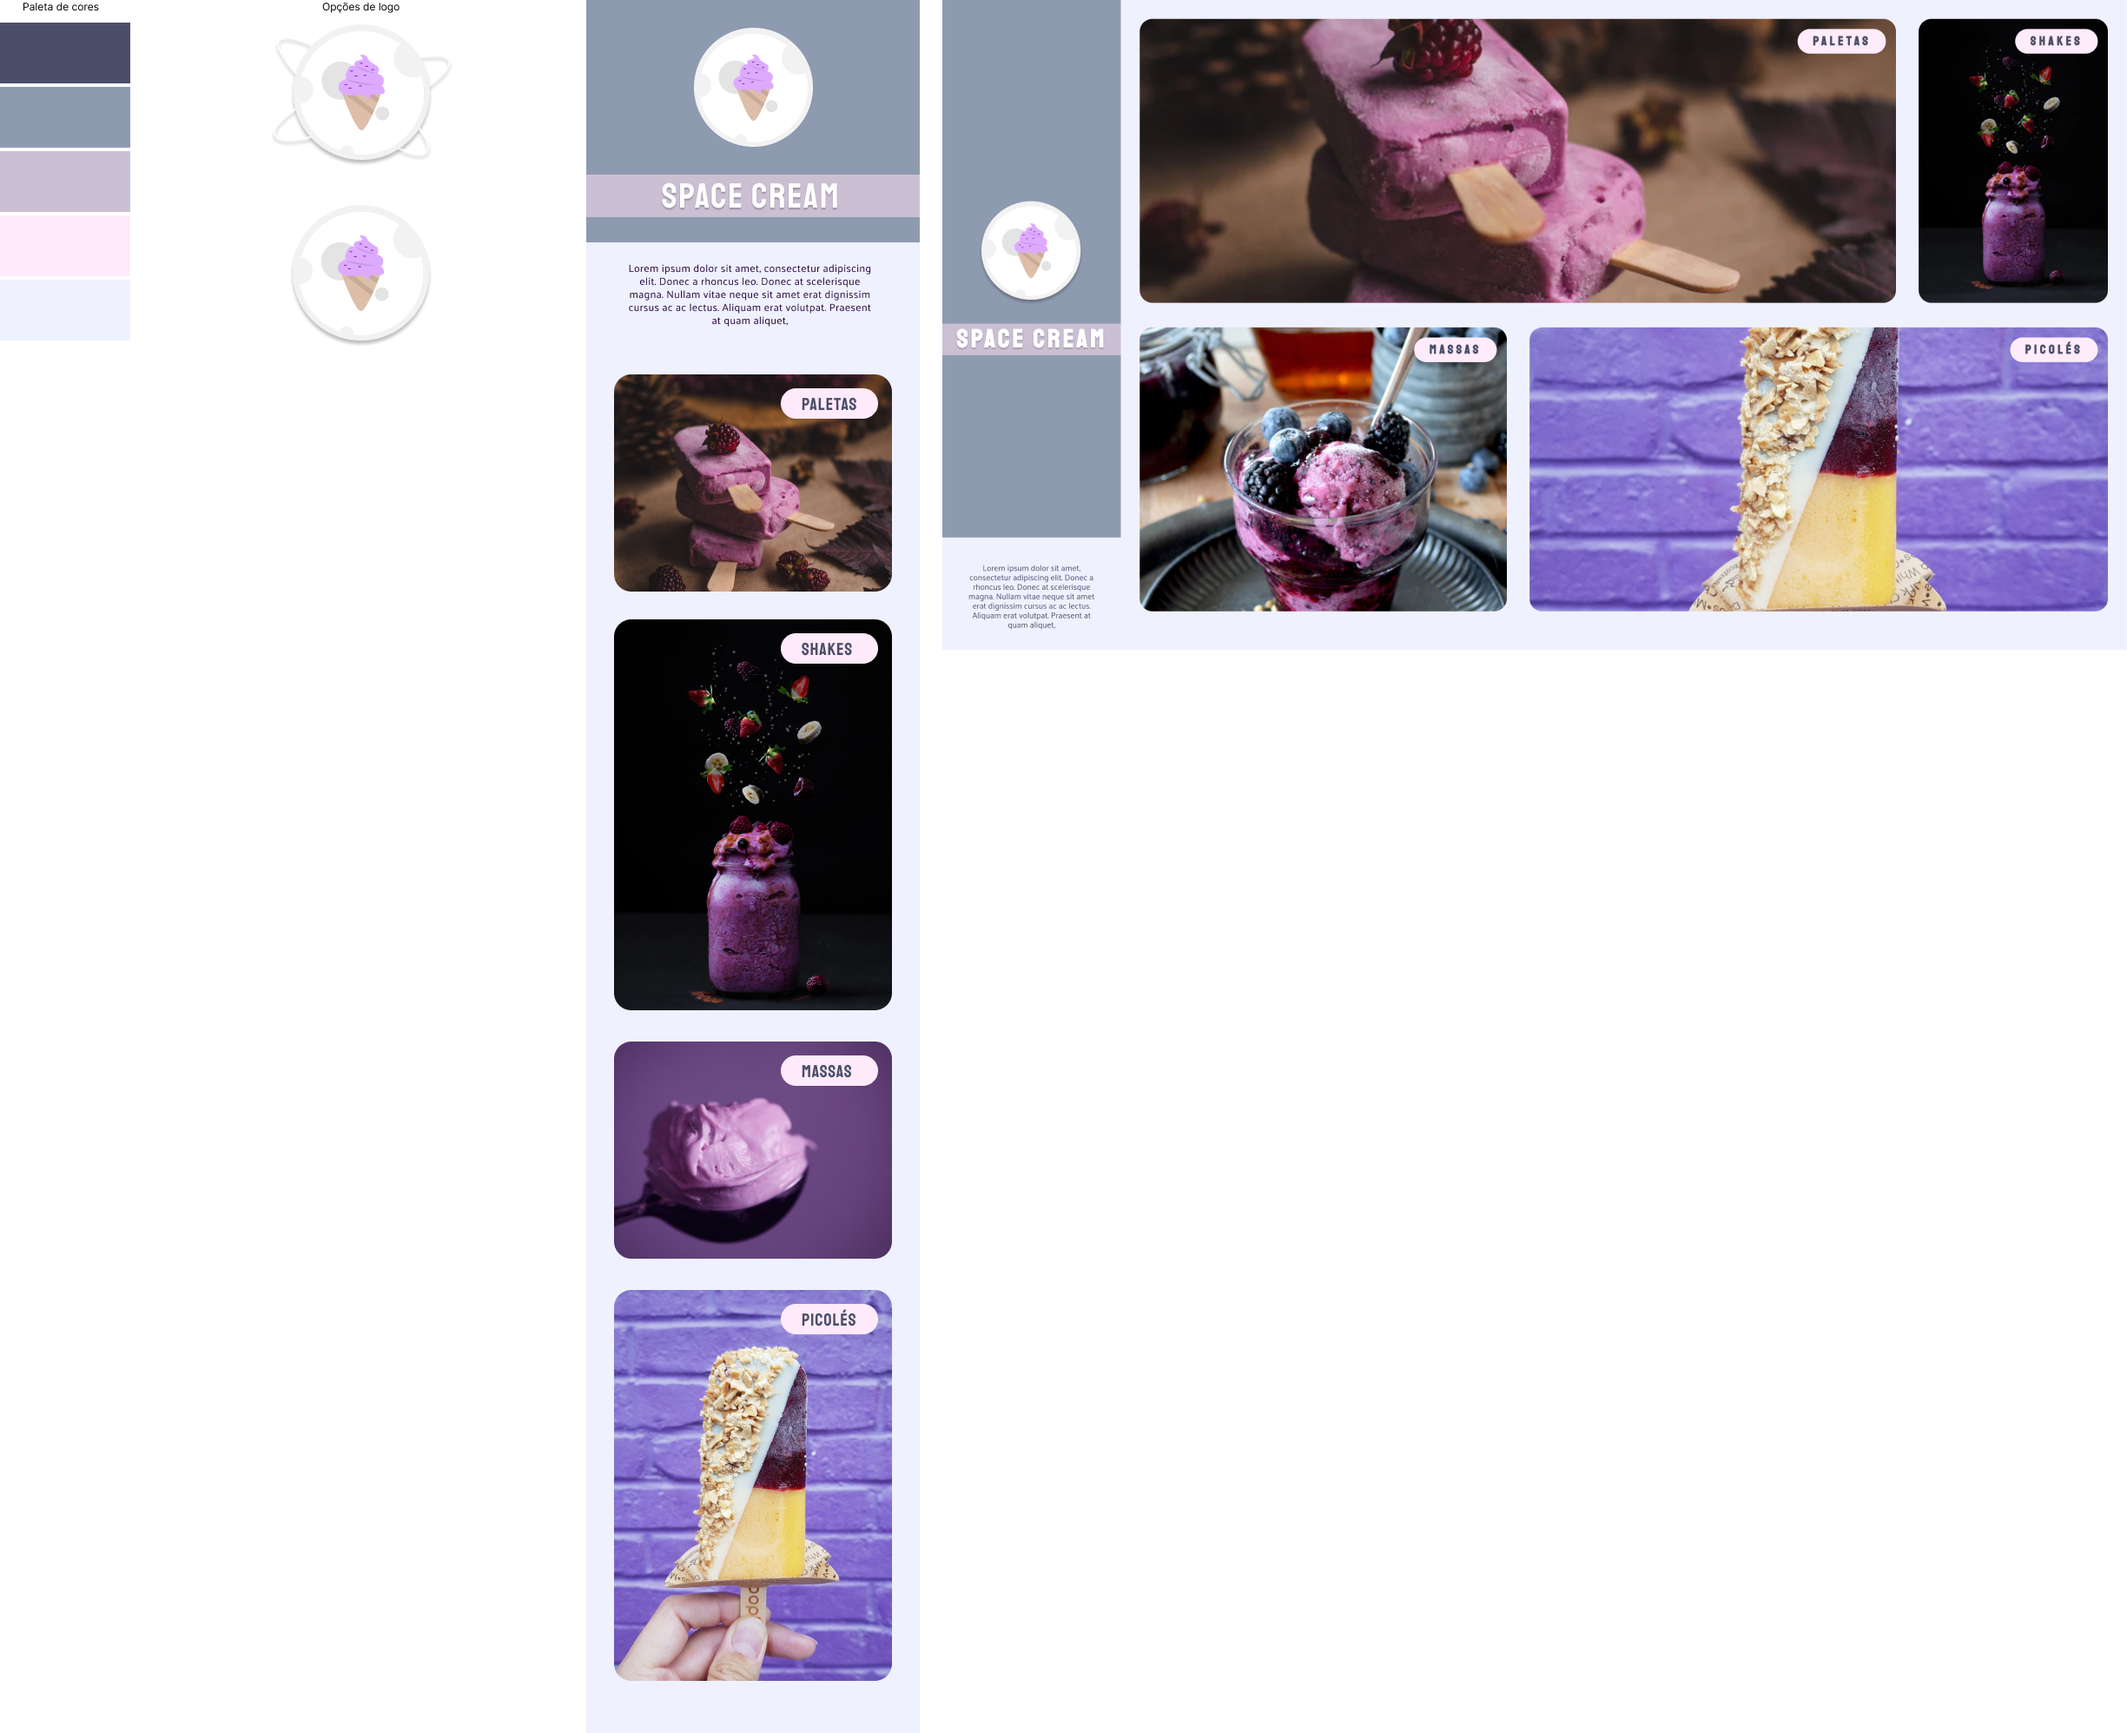
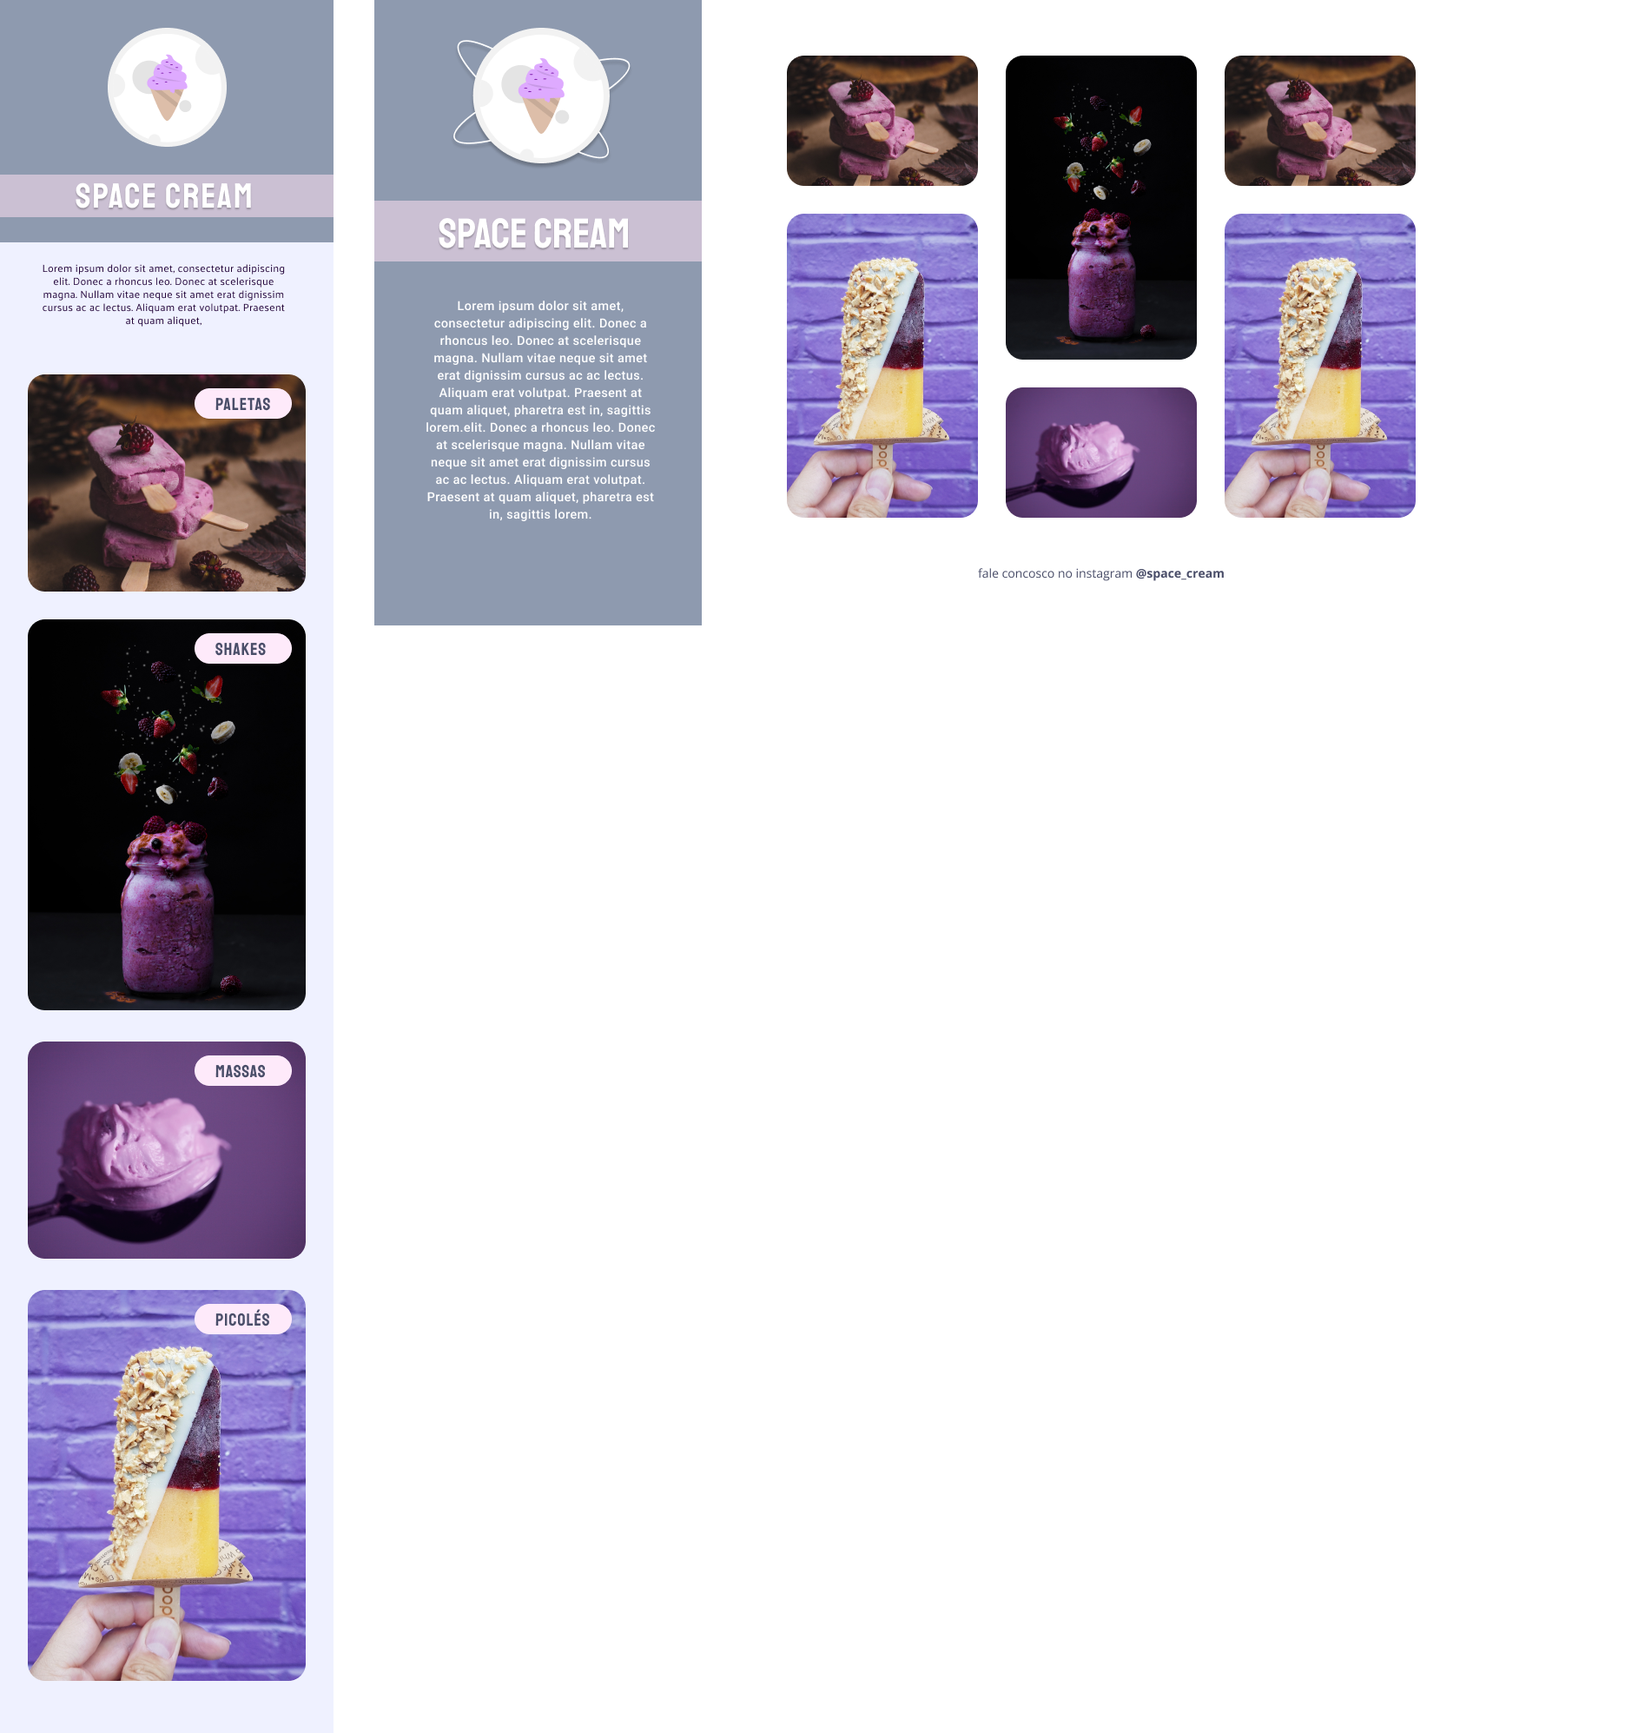
Adionado nova pagina desktop e estilizacao

diff --git a/css/style.css b/css/style.css
@@ -15,14 +15,19 @@
   --fs-title: 4rem;
   --fs-text: 1.3rem;
   --fs-second-title: 2rem;
+  --fs-second-text: 2.4rem;
+  --fs-title-desktop: 4.8rem;
   --ff-primary: "Palanquin", sans-serif;
   --ff-second: "Staatliches", cursive;
+  --ff-third: 'Open Sans', sans-serif;
+  --ff-fourth: 'Roboto', sans-serif;
 }
 
 body {
   margin: 0 auto;
   background: var(--cl-fourth);
   font-family: var(--ff-second);
+  min-height: 100vh;
 }
 
 body section:nth-child(1) {
@@ -53,6 +58,16 @@ body section:nth-child(1) {
   text-transform: uppercase;
   letter-spacing: 0.5rem;
   text-shadow: 0px 2px 2px rgba(0, 0, 0, 0.25);
+}
+
+body .content .space-cream p {
+  display: none;
+  color: var(--cl-fifth);
+  font-size: var(--fs-text);
+  line-height: 2rem;
+  font-family: var(--ff-fourth);
+  width: 26rem;
+  height: 50rem;
 }
 
 .content p {
@@ -109,6 +124,21 @@ body section:nth-child(2) {
   gap: 3.6rem;
 }
 
+footer {
+  display: none;
+  width: 59.2rem;
+}
+
+footer, footer a {
+  font-family: var(--ff-third);
+  font-size: var(--fs-text);
+  color: var(--cl-primary);
+  text-decoration: none;
+  text-align: center;
+  line-height: 2.8rem;
+  margin: 0 auto;
+}
+
 @keyframes topdown {
     0% {
         opacity: 0;
@@ -147,25 +177,53 @@ body section:nth-child(2) {
 @media (min-width: 1100px) {
   body {
       display: flex;
+      background: var(--cl-fifth);
   }  
 
   body section:nth-child(1) {
-    width: 33.5rem;
+    width: 40rem;
     margin: 0;
+  }
+
+  body section:nth-child(1) p {
+    display: none;
+  }
+
+  .content .card:nth-child(1) img,
+  .content .card:nth-child(4) img {
+    height: 25rem;
   }
 
   .space-cream {
       display: flex;
       flex-direction: column;
       align-items: center;
-      justify-content: center;
-      height: 85%;
-      margin-bottom: 4rem;
+      height: 100%;
+      width: 377px;
+  }
+
+  body .content .space-cream p {
+    display: block;
+  }
+
+  .space-cream h1 {
+    display: flex;
+    height: 7rem;
+    align-items: center;
+    justify-content: center;
+    margin-bottom: 1.8rem;
+    font-size: var(--fs-title-desktop);
+  }
+
+  footer{
+    display: block;
+    margin-top: 0;
   }
 
   body section:nth-child(2) {
-    grid-template-areas: "A A B" "C D D";
-    padding: 3rem;
+    grid-template-areas: "A B B" "C B B" "C D D" "E E E";
+    padding: 5rem 9.3rem;
+    padding-bottom: 0;
     margin-bottom: 0;
     width: 100%;
   }
@@ -177,10 +235,16 @@ body section:nth-child(2) {
   .content .card:nth-child(2) {
     grid-area: B;
   }
+
   .content .card:nth-child(3) {
     grid-area: C;
   }
+
   .content .card:nth-child(4) {
     grid-area: D;
+  }
+
+  footer {
+    grid-area: E;
   }
 }

diff --git a/index.html b/index.html
@@ -6,7 +6,7 @@
     <meta charset="UTF-8" />
     <meta name="viewport" content="width=device-width, initial-scale=1.0" />
     <link
-      href="https://fonts.googleapis.com/css2?family=Palanquin&family=Staatliches&display=swap"
+      href="https://fonts.googleapis.com/css2?family=Open+Sans&family=Palanquin&family=Roboto&family=Staatliches&display=swap"
       rel="stylesheet"
     />
     <link rel="stylesheet" href="./css/style.css" />
@@ -20,6 +20,15 @@
           alt="sorvete de casquinha roxo com uma lua cheia atrás"
         />
         <h1>Space cream</h1>
+        <p>
+          Lorem ipsum dolor sit amet, consectetur adipiscing elit. Donec a
+          rhoncus leo. Donec at scelerisque magna. Nullam vitae neque sit amet
+          erat dignissim cursus ac ac lectus. Aliquam erat volutpat. Praesent at
+          quam aliquet, pharetra est in, sagittis lorem.elit. Donec a rhoncus
+          leo. Donec at scelerisque magna. Nullam vitae neque sit amet erat
+          dignissim cursus ac ac lectus. Aliquam erat volutpat. Praesent at quam
+          aliquet, pharetra est in, sagittis lorem.
+        </p>
       </div>
       <p>
         Lorem ipsum dolor sit amet, consectetur adipiscing elit. Donec a rhoncus
@@ -57,6 +66,14 @@
         />
         <h2>Picolés</h2>
       </div>
+      <footer>
+        <p>
+          fale concosco no instagram
+          <a href="https://www.instagram.com/" target="_blank"
+            ><strong>@space_cream</strong></a
+          >
+        </p>
+      </footer>
     </section>
   </body>
 </html>

diff --git a/README.md b/README.md
@@ -19,4 +19,4 @@ Esse projeto tem como finalidade colocar em prática os conceitos de responsivid
 
 Nos links abaixo você encontra o layout do projeto web e também do mobile. Lembrando que você precisa ter uma conta no [Figma](http://figma.com/) para acessá-lo.
 
-- [Layout Web / Mobile](<https://www.figma.com/file/z0WeJDRjGgIDBNUAsaIb9v/Stage-03---Mobile-First-(Copy)?node-id=0%3A1>)
+- [Layout Web / Mobile](<https://www.figma.com/file/g2RgwVpSoemU8N8z1Z9Fyr/Stage-03---Mobile-First>)
